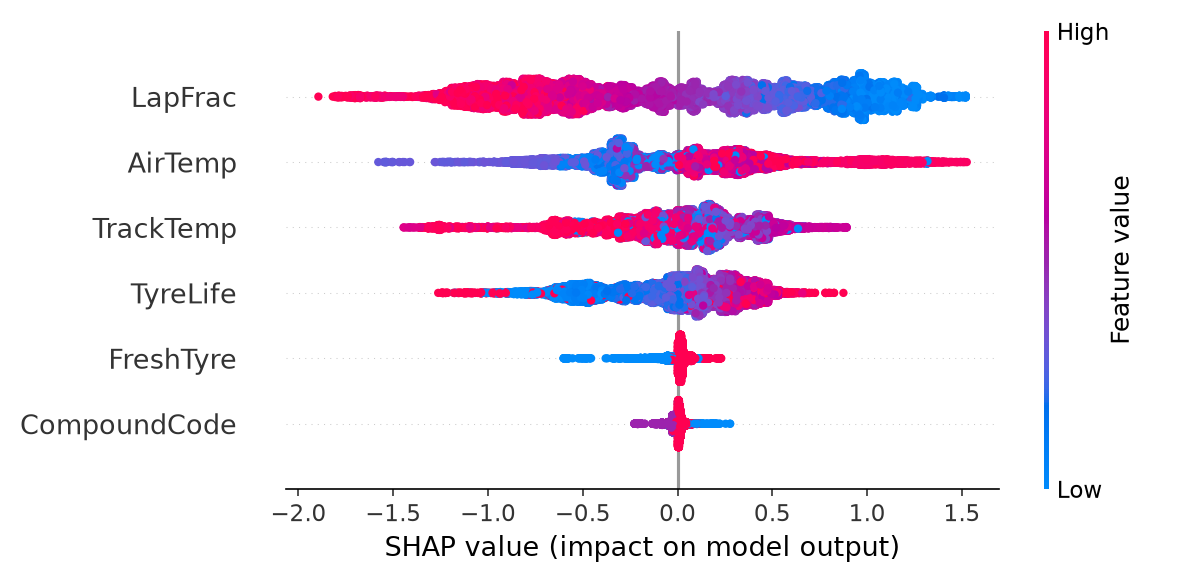
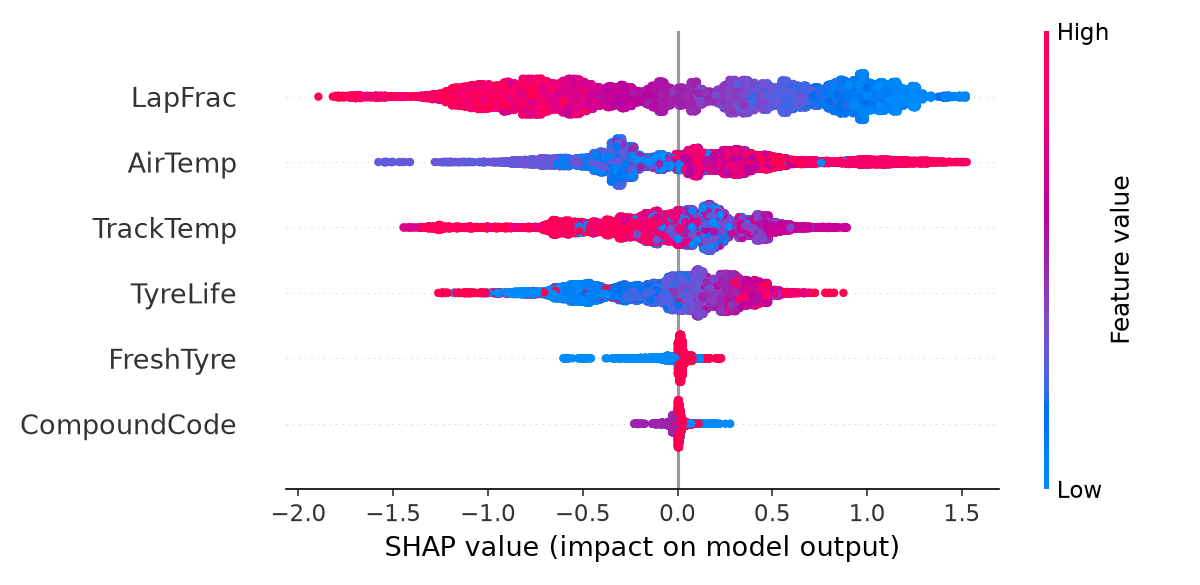
Final: leave-one-race-out evaluation, Bayesian degradation, strategy engine, results

diff --git a/README.md b/README.md
@@ -1,120 +1,57 @@
-# F1 Strategy Simulator v3: an uncertainty-aware race-strategy optimization engine
+# F1 Strategy Simulator
 
-Predicts lap-time loss from tyre age, compound and race progress, then **recommends a pit strategy automatically**,
-with probabilistic outcomes, safety-car awareness, undercut/overcut analysis and plain-language explanations.
+Leave-one-race-out evaluation, Bayesian tyre-degradation modelling and Monte Carlo pit-strategy comparison on 2024 F1 race data (OpenF1, no account needed).
 
-> **Status:** everything below is tested on synthetic races with known physics (`python -m tests.test_strategy`).
-> It has **not** been run on real OpenF1 data in this environment (no network), and the Streamlit UI has been
-> exercised only through a stub (`tests.test_app_smoke`), not in a browser. Real-data results: *add after running*.
-> This is a replay/what-if tool. It is **not** a live race system: there is no live data pipeline.
+## Results (2024 season, 23 usable races, leave-one-race-out)
 
-## What v3 adds
-| Feature | Where | What it does |
-|---|---|---|
-| Dynamic pit-stop optimizer | `src/planner.py`, `src/optimizer.py` | Enumerates every legal 0/1/2-stop strategy (compound sequence + pit laps) from the current state: min stint, two-compound rule, tyre-life limits taken from the data. Ranks by mean time, then re-ranks a shortlist with Monte Carlo (mean or 90th-percentile objective). |
-| Safety car / VSC simulator | `src/scenarios.py`, `src/optimizer.py` | No SC, SC on laps 15/25/40, VSC. Cheaper stops, slower laps and reduced tyre wear under neutralisation. `scenario_table` = best plan per scenario and what re-planning is worth; `reactive_decision` = "SC just came out on lap 20, pit now?" using only the state at that lap. |
-| Bayesian tyre degradation | `src/bayes.py` | Hierarchical regression (partial pooling across races, or drivers with `group_col="Driver"`), pure-NumPy Gibbs sampler. Reports degradation as mean ± posterior sd plus race-to-race spread; forecasts carry parameter uncertainty. |
-| Monte Carlo outcomes | `src/montecarlo.py` | Thousands of simulated races with common random numbers: posterior/residual uncertainty, per-lap noise, weather shift (tree model), random SC/VSC (rate estimated from the data), pit-stop duration variation. Reports mean, 10th/90th percentile, **P(fastest)**, regret and paired advantages. |
-| Undercut / overcut | `src/undercut.py` | Scans our stop lap against a rival's: fresh-tyre gain, both pit losses, old-tyre cost, traffic, gap; P(success) by simulation; cost to our own race. |
-| Strategy dashboard | `app.py` | `streamlit run app.py` |
-| Strategy Intelligence Engine | `src/strategy_explain.py` | Why this strategy, what would change it (pit-loss and degradation thresholds, SC scenarios), what it risks. Every sentence is computed from model output. |
-| Leakage fixes | `src/features.py`, `src/engine.py` | `prepare(ref_mode="early")` builds targets with no future laps; `state_from_race` / `backtest_decision` use only information available at the decision lap (tested). |
+**1. Within-driver skill (the most reliable result).** Target = lap time minus the driver's own race mean; no reference pace is used.
+Race progress alone explains about 40% of within-race variation; adding tyre age raises that to about 48-50%. Tyre age helps in 18-19 of
+22 held-out races (about +0.09 skill, sign test p of about 0.004; races are not fully independent). Compound adds nothing, and temperature
+features hurt tree models. Full output: `results/ablation.txt`.
 
-### Two findings worth knowing
-1. **The v2 target biases tyre degradation toward zero.** `DeltaS = lap - driver's 15th-percentile lap` depends on the driver's own stint mix.
-   On synthetic data with known physics (HARD 0.03 s/lap) the v2 target gives 0.002; `ref_mode="fe"` and `"early"` give 0.030 / 0.031.
-   The Bayesian model avoids it by using a within-driver-race estimator on raw lap times.
-2. **v2 held-out numbers were optimistic.** With the leak-free `early` reference the synthetic held-out MAE of the boosted model rises from 0.215 to 0.264 s.
-   Report the `early` numbers (`python run_experiment.py --ref-mode early`).
-
-## Run
-```bash
-pip install -r requirements.txt
-python run_experiment.py --ref-mode early          # real data (downloads from OpenF1, caches to data/), leak-free evaluation
-python run_strategy.py --synthetic                 # full strategy report offline
-python run_strategy.py --lap 22 --compound MEDIUM --tyre-life 22 --rival-gap 2.5 --rival-pit-lap 26
-python run_strategy.py --backtest-lap 25 --driver VER   # decision from information available at lap 25 only
-streamlit run app.py
-python -m tests.test_strategy && python -m tests.test_pipeline && python -m tests.test_openf1_parse && python -m tests.test_app_smoke
-```
-
-## Strategy-engine assumptions (edit `src/config.py`)
-These are **assumptions, not fitted values**: SC/VSC lap-time factors (1.40 / 1.30), pit-loss factors under SC/VSC (0.50 / 0.65),
-tyre wear on neutralised laps (0.3 / 0.4 of a lap), default SC/VSC durations, traffic cost per car (0.6 s), weather shift sd (3 C).
-Only the SC/VSC *frequency* and start/duration distribution are estimated from data, and the OpenF1 loader cannot tell SC from VSC.
-
-## Limitations of the strategy engine
-- Monte Carlo strategies are committed plans (they do not react to a random SC); the value of reacting is shown separately in the scenario table.
-- At most one neutralisation per simulated race; pit-lane closure, field compression and restarts are not modelled.
-- The model sees the model's lap times only: no traffic, rivals' strategies, rain, tyre warm-up or driver-specific skill (unless you group by driver).
-- The Bayesian model is linear in tyre age (no cliff); stints longer than anything observed are excluded. With a handful of races the race-to-race spread depends on the prior.
-- The tree model cannot price counterfactual stints (a hard tyre early in the race); use it for evaluation, not for planning. The dashboard warns when it is selected.
-- Absolute finish times depend on an estimated reference pace; rankings do not. P(fastest) is among the compared strategies, not a race-win probability.
-- The backtest's "gain vs actual" is the model's own estimate, not an observed counterfactual.
-
-## v2 background
-## What changed from v1
-| Issue in v1 | Fix in v2 |
-|---|---|
-| Random 70/30 lap split, so adjacent laps of the same stint leak between train and test | **Leave-one-race-out**: the test race is never seen in training |
-| Pit label built with `shift(-1)` across the whole table (crosses driver boundaries); `AdjustedLapTime` used next-lap and pit-time data, which leaks the label | Label is the in-lap flag; features use only information known at the start of the lap; everything is grouped by (race, driver) |
-| Pit-window code compared predictions from *unrelated test rows* of two models | Counterfactual simulation: same driver, same lap, stay out vs pit at lap *p* |
-| One race (Monaco 2024) | Multiple circuits (`src/config.py`) |
-| No baselines, no intervals | Compound-mean baseline, linear model, gradient boosting (+LightGBM if installed), 90% conformal intervals |
-| Raw feature importance | Permutation importance on held-out races (+ SHAP if installed) |
-
-## Data source
-Default is **OpenF1** (free public API, no account or key, 2023 onward, limited to 30 requests/minute so the
-first download takes a few minutes). FastF1 3.9+ now requires an F1TV Access account; use it only with
-`--source fastf1` if you have one. OpenF1 has no per-lap position, so the `Position` feature is skipped.
-
-## Run
-```bash
-pip install -r requirements.txt
-python run_experiment.py                 # downloads races from OpenF1 (needs internet), caches to data/
-python run_experiment.py --synthetic     # offline self-test
-python -m tests.test_pipeline            # unit tests
-python -m tests.test_openf1_parse        # parser test
-```
-Outputs go to `results/`: per-race metrics, summary table, permutation importance, `shap_summary.png`,
-pit-window table and plot.
-
-## Method
-1. **Cleaning** (`src/features.py`): green-flag laps only, in/out laps removed, no rain, laps >7% slower than
-   the driver's median dropped.
-2. **Target**: `DeltaS` = lap time − the driver's reference pace in that race (15th percentile of clean laps).
-   This removes circuit and driver baselines so races are comparable.
-3. **Models**: compound-mean baseline, linear, HistGradientBoosting (+ LightGBM). Features: tyre life, lap fraction
-   (fuel proxy), compound, fresh-tyre flag, track/air temperature, position.
-4. **Uncertainty**: split conformal prediction. For each held-out race one other race is the calibration set.
-   Reported: empirical coverage (target 90%) and interval width.
-5. **Pit window** (`src/simulate.py`): total predicted time for "pit at lap p" vs "stay out", plus Monte Carlo using
-   bootstrapped residuals and observed pit-loss variation.
-
-## Results
-Fill in from `results/loro_regression_summary.csv` after running on real data:
+**2. Absolute lap-time delta (causal reference = laps 2-8).** Harder, and not reliably predictable for unseen races:
 
 | Model | Held-out MAE (s) | R² | 90% interval coverage |
 |---|---|---|---|
-| Compound-mean baseline | | | |
-| Linear | | | |
-| HistGradientBoosting | | | |
+| Compound-mean baseline | 1.049 | -0.402 | 0.871 |
+| Linear | 0.931 | -0.155 | 0.836 |
+| LightGBM | 1.008 | -0.398 | 0.806 |
+| HistGradientBoosting | 1.053 | -0.548 | 0.805 |
 
-## Limitations (state these in your write-up)
-- **Reference pace is known** (driver's 15th-percentile lap in the same race). In real use it would be estimated
-  from early laps or practice.
-- `LapFrac` mixes fuel burn and track evolution; tyre wear is not cleanly isolated.
-- Tree models cannot extrapolate beyond tyre ages seen in training; "no stop" estimates are unreliable
-  when they exceed it (the runner prints a warning).
-- No traffic, safety cars/VSC, the two-compound rule, or undercut/overcut effects.
-- Lap-to-lap model errors are sampled independently in Monte Carlo, which understates correlation.
-- Pit loss is estimated from data and includes small tyre-age effects.
+22 held-out races; the race-to-race sd of MAE is 0.4-0.6 s, so most differences between models are within noise. Linear beats the baseline
+in 17 of 22 races; trees roughly tie it. Nominal 90% conformal intervals cover only 80-84%.
 
-- **Survivorship bias:** laps on very old tyres only exist when the tyres were still fast enough to stay out
-  (drivers pit when degradation bites), so degradation at high tyre age is understated and "no stop" looks
-  better than it is.
-- Pit-loss samples are restricted to 8-60 s; red-flag and glitch laps otherwise produce losses of hundreds of seconds.
-- The demo state (lap 20 of the median race length) is illustrative, not a real race situation.
+**3. Bayesian tyre degradation** (hierarchical model, s per lap of tyre age, mean ± posterior sd): SOFT 0.092 ± 0.012, MEDIUM 0.064 ± 0.010,
+HARD 0.052 ± 0.008. The ordering is plausible, but the race-to-race sd (about 0.04) is larger than the gaps between compounds, and MEDIUM vs HARD is not distinguishable.
 
-## Next steps
-Survival model for pit timing; driver-level pooling on real data; rival-aware strategy (game-theoretic); closing the pit lane under SC.
+**4. Strategy engine** (`run_strategy.py`, `app.py`): Monte Carlo comparison of pit strategies including safety-car scenarios. It gives a modelled
+what-if, not validated advice: it has not been backtested against real team decisions, and its uncertainty is wide (e.g. a 90% range of -18 to +32 s against the
+runner-up in the example run).
+
+`results/leakage_same_laps.csv` compares a whole-race reference pace with the causal reference on identical laps.
+
+## Run
+```bash
+python3 -m venv .venv && source .venv/bin/activate
+pip install -r requirements.txt
+python run_experiment.py --ref-mode early      # downloads 2024 races from OpenF1 (slow, rate-limited), caches in data/
+python run_ablation.py --exclude 2024_R08      # within-driver ablation
+python run_leakage_check.py                    # reference-pace comparison
+python run_strategy.py --lap 22 --compound MEDIUM --tyre-life 22
+streamlit run app.py                           # local dashboard
+python -m tests.test_strategy && python -m tests.test_pipeline && python -m tests.test_openf1_parse
+```
+
+## Layout
+`src/` data loading, features, models, evaluation, Bayesian model, optimizer, Monte Carlo, safety-car scenarios. `tests/` offline tests on synthetic races with known
+physics. `legacy/` the original v1 script (random split and label leakage, fixed in later versions).
+
+## Limitations
+- The causal reference is unstable in wet and red-flag races. Monaco 2024 is excluded from the ablation.
+- No traffic, per-lap position or rival data; safety car and VSC cannot be separated; the tyre model is linear.
+- Old-tyre laps only exist when tyres were still fast enough to stay out (survivorship bias), so degradation at high tyre age is understated.
+- The pit-window demo in `run_experiment.py` uses tree models and is not valid under the causal target; use `run_strategy.py`.
+- Strategy-engine assumptions are in `src/config.py`.
+
+## Development notes
+Built with AI assistance (Claude). The evaluation design and corrections (leave-one-race-out, leakage checks, within-driver evaluation) are documented in the commit history.
